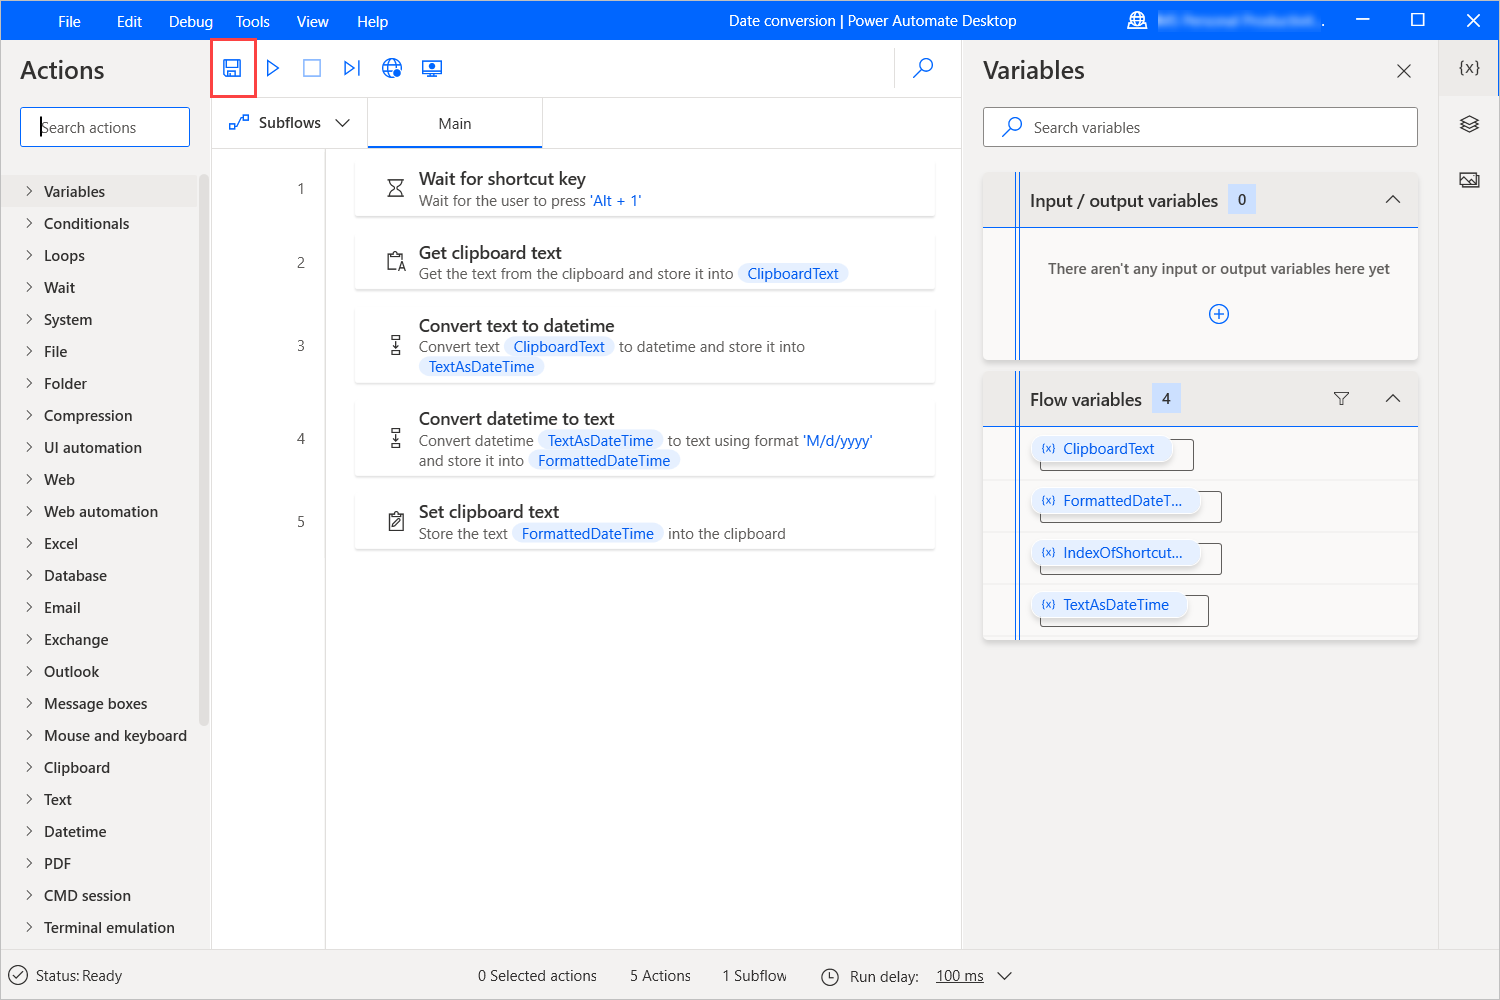
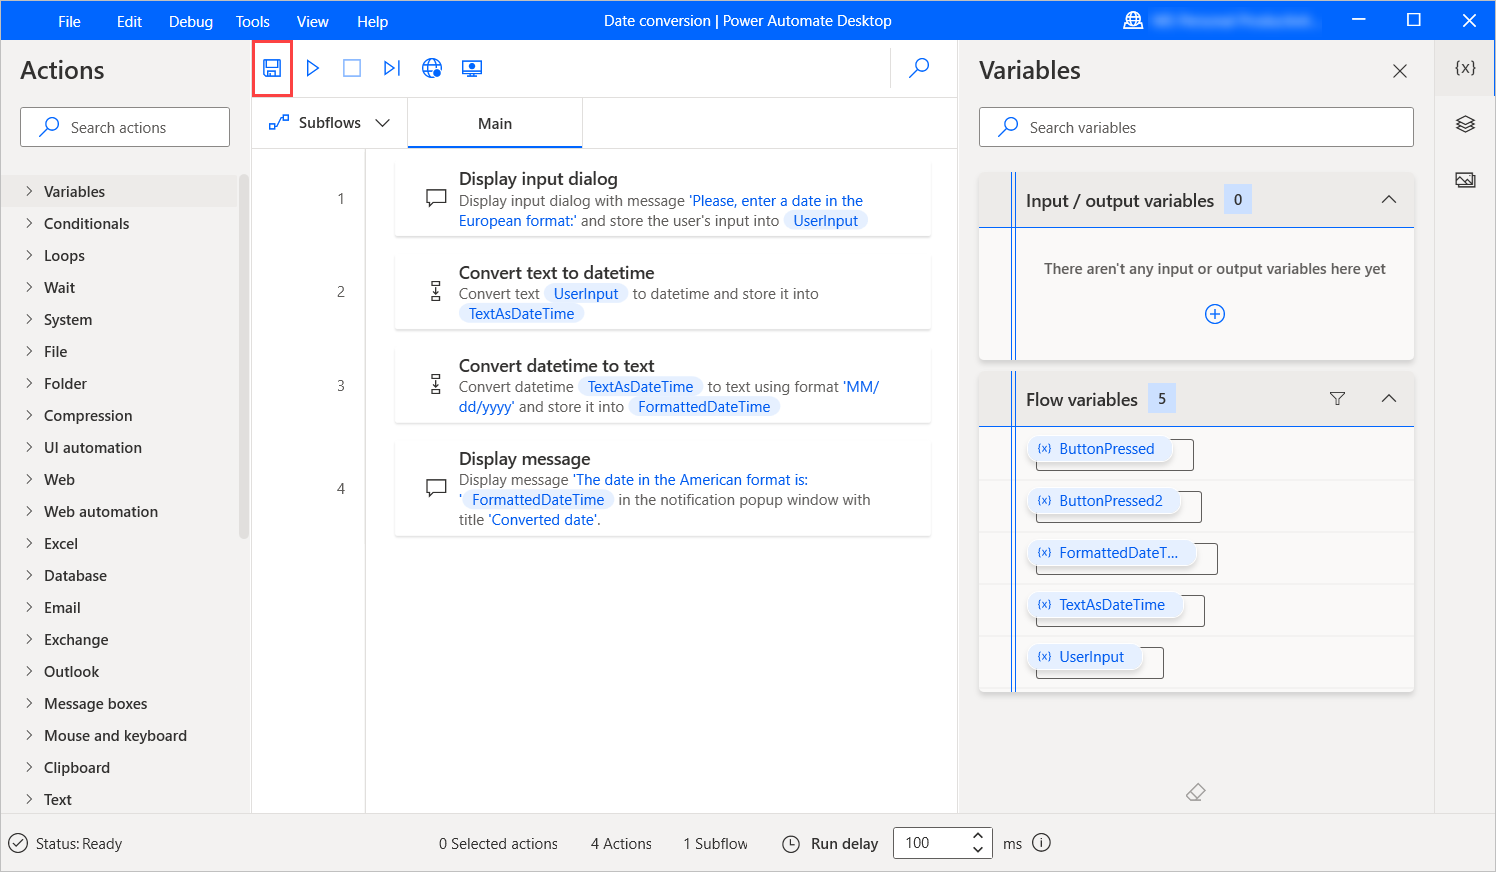
Updates in the PAD first steps exercise

diff --git a/learn-bizapps-pr/flow/pad-first-steps/includes/4-create-simple-flow.md b/learn-bizapps-pr/flow/pad-first-steps/includes/4-create-simple-flow.md
@@ -1,4 +1,4 @@
-In this unit, you'll develop a flow that converts dates in the European format (DD/MM/YYYY) to the American format (MM/DD/YYYY). The flow will retrieve the date from the clipboard when the **Alt + 1** keys are pressed, and it will return the converted date. 
+In this unit, you'll develop a flow that converts dates in the dd/MM/yyyy format, commonly used in Europe, to the American format (MM/dd/yyyy). The flow will prompt users to enter a date and it will display the converted date in a message box. 
 
 To create the flow:
 
@@ -10,42 +10,30 @@ To create the flow:
 
     ![Screenshot of the Build a flow dialog box.](..\media\console-build-new-flow.png)
 
-1. When the flow designer is launched, use the **Actions** pane to search for and select the **Wait for shortcut key** action.
+1. When the flow designer is launched, use the **actions** pane to search for and select the **Display input dialog** action. Set the action to prompt users to enter a date in the American format.
 
-    ![Screenshot of the actions pane.](..\media\actions-pane.png)
+    ![Screenshot of the Display input dialog action.](..\media\display-input-dialog-action.png)
 
-1. Set the action to wait for the **Alt + 1** keys.
+1. Deploy a **Convert text to datetime** action to convert the entered text to a datetime variable. The text represents the European date format, so configure the custom format in the action's properties.
 
-    ![Screenshot of the Wait for shortcut key action.](..\media\wait-for-shortcut-key-action.png)
-
-1. Add a **Get clipboard text** action to retrieve the current content of the clipboard.
-
-    ![Screenshot of the Get clipboard text action.](..\media\get-clipboard-text.png)
-
-1. Deploy a **Convert text to datetime** action to convert the retrieved text to a datetime variable. The text represents the European date format, so configure the custom format in the action's properties.
-
-    ![Screenshot of the Convert text to datetime action.](..\media\convert-text-to-datetime.png)
+    ![Screenshot of the Convert text to datetime action.](..\media\convert-text-to-datetime-action.png)
 
 1. To convert the datetime variable to the American date format, use the **Convert datetime to text** action with the appropriate custom format in its properties.
 
-    ![Screenshot of the Convert datetime to text action.](..\media\convert-datetime-to-text.png)
+    ![Screenshot of the Convert datetime to text action.](..\media\convert-datetime-to-text-action.png)
 
-1. Use the **Set clipboard text** action to set the final date as the current content of the clipboard.
+1. Use the **Display message** action to display the converted date in a message box.
 
-    ![Screenshot of the Set clipboard text action.](..\media\set-clipboard-text.png)
+    ![Screenshot of the Display message action.](..\media\display-message-action.png)
 
-1. To test the flow, copy a date in the European format and select the **Run** button to verify that the flow returns the American date format.
+1. To test the flow, select the **Run** button, populate a date in the European format, and verify that the flow displays the appropriate American date format. To check how every single action is implemented, run the flow step by step using the **Run next action** button.
 
-    ![Screenshot of the run button in the flow designer.](..\media\run-flow-icon.png)
-
-1. If you want to check how every single action is implemented, you can run the flow step-by-step by using the **Run next action** button.
-
-    ![Screenshot of the Run next action button in the flow designer.](..\media\run-next-action-icon.png)
+    ![Screenshot of the Run and Run next action buttons in the flow designer.](..\media\run-next-action-icon.png)
 
 1. If the flow runs as expected, select **Save** and then close the flow designer.
 
     ![Screenshot of the Save button in the flow designer.](..\media\save-icon.png)
 
-1. Run your flow manually through the **Run** button in the console. Use the date **14/03/2021** as an example and check that the flow returns **03/14/2021**. If you want to stop running the flow, select the **Stop** button.
+1. Now, you can also run your flow manually through the **Run** button in the console. If you want to stop running the flow, select the **Stop** button.
 
     ![Screenshot of the run button in the console.](..\media\run-date-conversion-flow.png)
